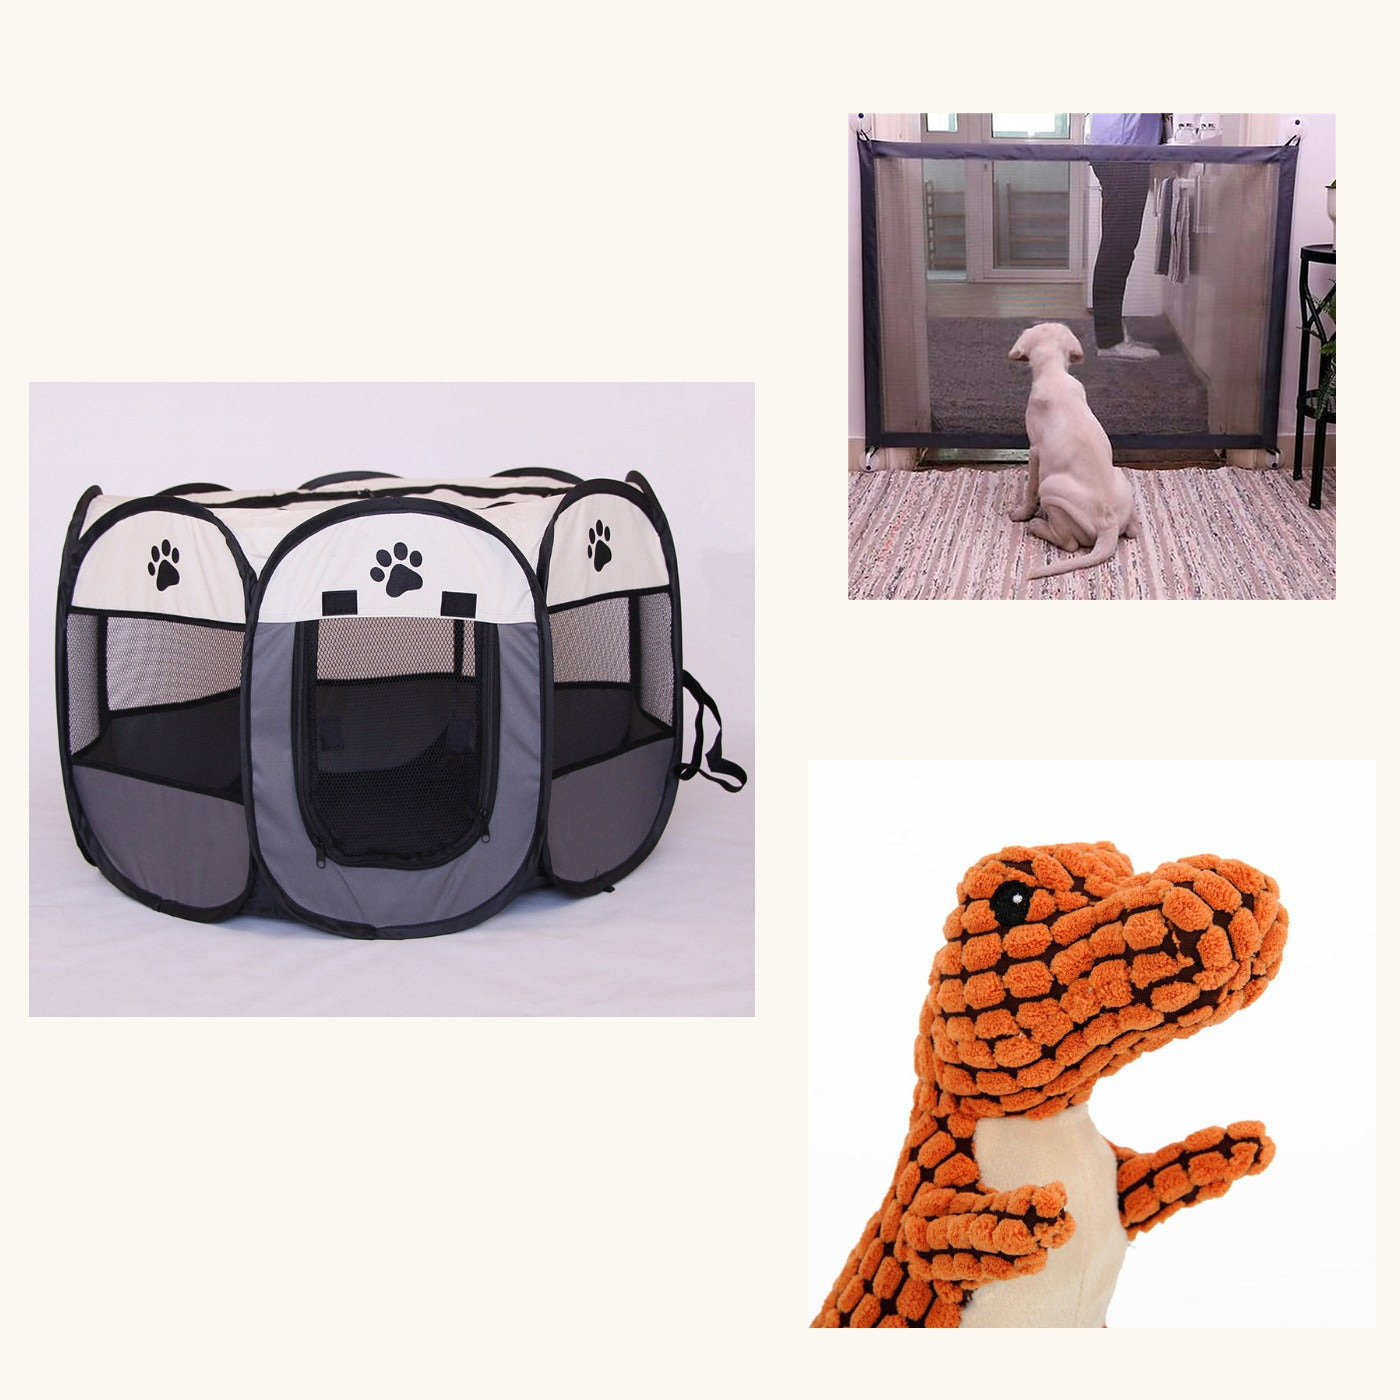
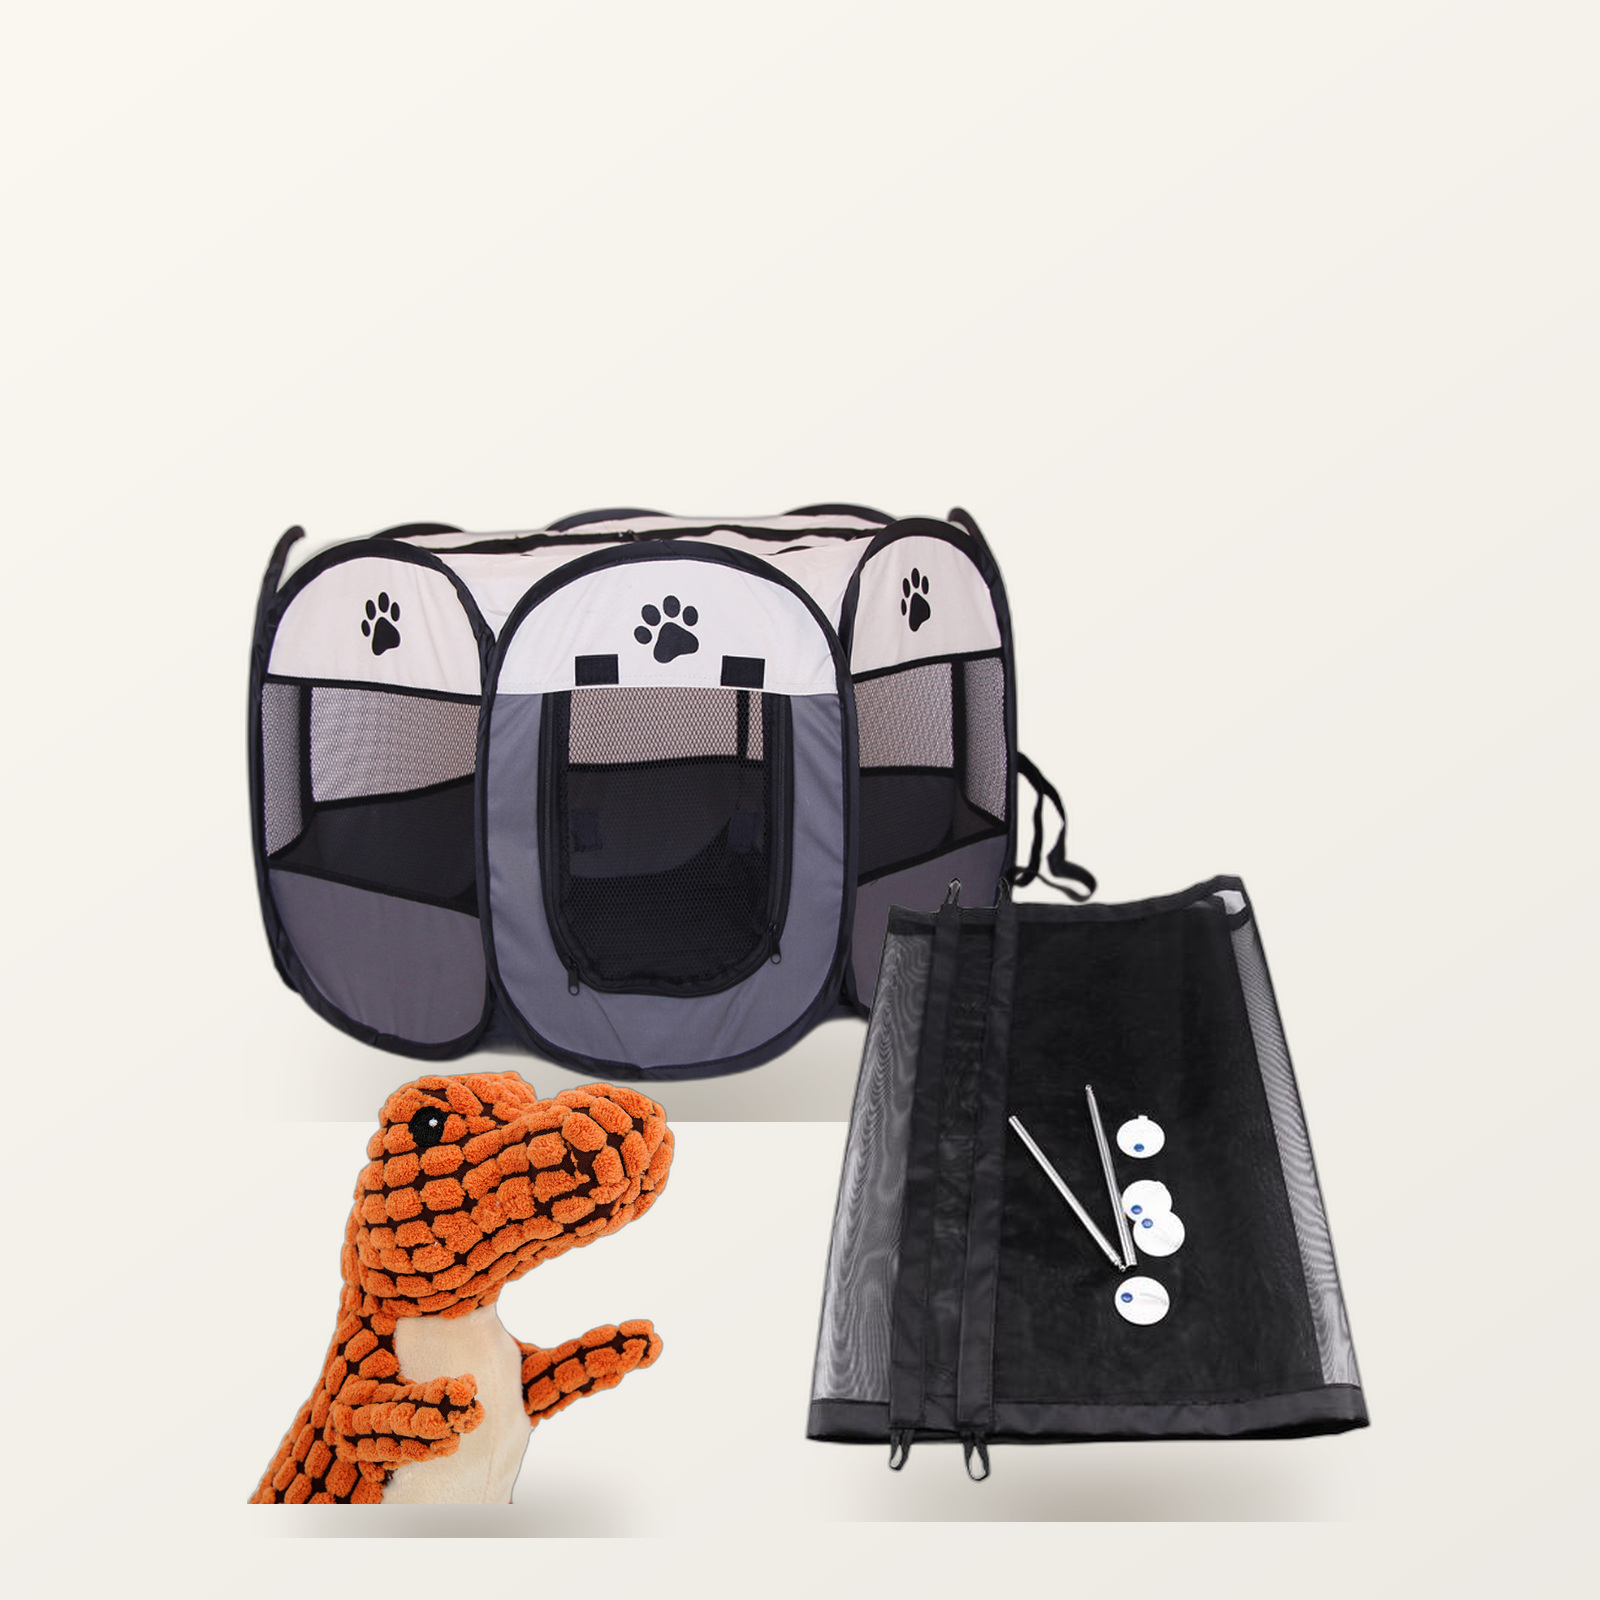
Packs: una sola foto en vez de tres pegadas
La foto de un pack era un collage: tres rectangulos sobre fondo crema, cada
uno con su propio fondo blanco, gris o lila. Se veian las costuras y lo que
llegaba al cliente era «tres fotos juntas», no un producto. Ademas solo dos
de los cuatro packs tenian siquiera ese collage, asi que en la coleccion unos
ensenaban el conjunto y otros una sola pieza.

Ahora scripts/fotos/montaje-pack.py recorta el fondo de cada pieza y las
coloca sobre una unica superficie continua, con su sombra de contacto. Las
piezas se situan a mano y no en fila: una fila deja el cuadro en una banda y
todo a la misma distancia. Poniendo lo grande detras y arriba y lo pequeno
delante y abajo, el ojo lee una mesa con tres cosas encima.

Nada esta generado. Son las fotos reales del proveedor, recortadas. Un pack
tiene que ensenar lo que llega a casa, y para eso una imagen inventada no
sirve por buena que sea.

Dos cosas que costaron mas de lo previsto:

  rembg no ve la alfombrilla de lamer, que es gris claro sobre blanco, y solo
  devuelve la comida de los huecos. Para eso se anade recortar_plano(), que
  no necesita modelo: quita las manchas del color del fondo QUE TOCAN EL
  BORDE de la foto. Un hueco blanco dentro del objeto no toca el borde y se
  queda.

  Varias fotos de origen no eran de producto aislado: llevaban recuadros de
  detalle, rotulos en ingles, una pata de perro suelta, o el parque en rosa,
  que es un color que no vendemos. Se ha ido a la ficha del proveedor a
[…]

diff --git a/scripts/fotos/montaje-pack.py b/scripts/fotos/montaje-pack.py
@@ -1,0 +1,148 @@
+#!/usr/bin/env python3
+"""Monta las piezas de un pack en UNA sola foto.
+
+El problema que resuelve: hasta ahora la foto de un pack era un collage de
+rectangulos pegados sobre un fondo crema. Se veian las costuras —cada foto
+traia su propio fondo blanco, gris o lila— y lo que llegaba al cliente era
+«tres fotos juntas», no «un producto».
+
+Aqui se recorta el fondo de cada pieza con rembg y se colocan las tres sobre
+una unica superficie continua, apoyadas en la misma linea de suelo y con su
+sombra de contacto. El resultado se lee como una foto de tres objetos encima
+de una mesa.
+
+Nada de esto es generado: son las fotos reales del proveedor, recortadas.
+Un pack tiene que ensenar lo que llega a casa.
+"""
+import os
+import sys
+
+import numpy as np
+from PIL import Image, ImageDraw, ImageFilter
+
+CREMA = (251, 247, 241)      # --crema de la marca
+LADO = 1600
+
+_sesion = None
+
+
+def recortar(ruta):
+    """Quita el fondo y devuelve la pieza ajustada a su caja."""
+    global _sesion
+    from rembg import remove, new_session
+    if _sesion is None:
+        _sesion = new_session('u2net')
+    im = Image.open(ruta)
+    im.load()
+    out = remove(im.convert('RGBA'), session=_sesion)
+    caja = out.getbbox()
+    return out.crop(caja) if caja else out
+
+
+def recortar_plano(ruta, tolerancia=26, suavizado=1.4):
+    """Recorte para objetos claros sobre fondo blanco liso.
+
+    rembg falla con la alfombrilla de lamer: es gris claro sobre blanco y el
+    modelo no la distingue del fondo, asi que solo devuelve la comida de los
+    huecos. Aqui no hace falta un modelo. El fondo es de un color plano, y lo
+    que hay que quitar es exactamente eso: las manchas de ese color que tocan
+    el borde de la foto. Lo de dentro del objeto —un hueco blanco, un reflejo—
+    no toca el borde y se queda.
+    """
+    from scipy import ndimage
+    im = Image.open(ruta)
+    im.load()
+    im = im.convert('RGB')
+    a = np.asarray(im).astype(int)
+
+    esquinas = np.concatenate([a[:8, :8].reshape(-1, 3), a[:8, -8:].reshape(-1, 3),
+                               a[-8:, :8].reshape(-1, 3), a[-8:, -8:].reshape(-1, 3)])
+    fondo = np.median(esquinas, axis=0)
+    parecido = np.abs(a - fondo).max(axis=2) <= tolerancia
+
+    etiquetas, n = ndimage.label(parecido)
+    del_borde = set(etiquetas[0, :]) | set(etiquetas[-1, :]) | set(etiquetas[:, 0]) | set(etiquetas[:, -1])
+    del_borde.discard(0)
+    quitar = np.isin(etiquetas, list(del_borde))
+
+    alfa = np.where(quitar, 0, 255).astype('uint8')
+    alfa = np.asarray(Image.fromarray(alfa).filter(ImageFilter.GaussianBlur(suavizado)))
+    out = Image.fromarray(np.dstack([np.asarray(im), alfa]), 'RGBA')
+    caja = out.getbbox()
+    return out.crop(caja) if caja else out
+
+
+def sombra(tam, ancho, opacidad=88):
+    """Sombra de contacto: una elipse difuminada bajo el objeto.
+
+    Es lo que hace que las piezas parezcan apoyadas en la misma superficie
+    en vez de flotando cada una por su lado. Sin esto el montaje sigue
+    leyendose como un collage aunque los fondos coincidan.
+    """
+    capa = Image.new('L', tam, 0)
+    d = ImageDraw.Draw(capa)
+    alto = max(10, int(ancho * 0.13))
+    cx, cy = tam[0] // 2, tam[1] - alto // 2
+    d.ellipse([cx - ancho // 2, cy - alto // 2, cx + ancho // 2, cy + alto // 2],
+              fill=opacidad)
+    return capa.filter(ImageFilter.GaussianBlur(alto * 0.55))
+
+
+def superficie(lado):
+    """Fondo crema con una caida de luz suave, para que no sea un plano muerto."""
+    base = Image.new('RGB', (lado, lado), CREMA)
+    y = np.linspace(0, 1, lado)[:, None]
+    x = np.linspace(0, 1, lado)[None, :]
+    # mas luz arriba a la izquierda, como una ventana fuera de cuadro
+    caida = 1.0 - 0.055 * ((x * 0.6 + y * 0.9) / 1.5)
+    a = np.asarray(base).astype(float) * caida[..., None]
+    return Image.fromarray(np.clip(a, 0, 255).astype('uint8'))
+
+
+def montar(piezas, salida, lado=LADO):
+    """Coloca cada pieza donde se le dice y devuelve una sola foto.
+
+    `piezas` es una lista de (ruta, cx, base, ancho), en fraccion del cuadro:
+      cx     centro horizontal
+      base   linea donde apoya la pieza
+      ancho  ancho de la pieza
+
+    Se colocan a mano y no en fila porque una fila deja el cuadro en una
+    banda: lo grande y lo pequeno acaban a la misma distancia y la foto no
+    tiene profundidad. Poniendo lo grande detras y arriba, y lo pequeno
+    delante y abajo, el ojo lee una mesa con tres cosas encima en vez de tres
+    recortes alineados.
+
+    Se dibujan primero todas las sombras y despues todos los objetos, para
+    que la sombra de uno pueda caer sobre el de al lado.
+    """
+    lienzo = superficie(lado)
+    puestas = []
+    for ruta, cx, base, ancho in piezas:
+        if ruta.endswith('!plano'):
+            obj = recortar_plano(ruta[:-6])
+        else:
+            obj = recortar(ruta)
+        w = int(lado * ancho)
+        h = int(obj.height * w / obj.width)
+        obj = obj.resize((w, h), Image.LANCZOS)
+        puestas.append((obj, int(lado * cx - w / 2), int(lado * base) - h))
+
+    for obj, x, y in puestas:
+        s = sombra((obj.width, obj.height + 46), int(obj.width * 0.78), 96)
+        oscuro = Image.new('RGB', s.size, (86, 76, 60))
+        lienzo.paste(oscuro, (x, y + obj.height - s.size[1] + 34), s)
+    for obj, x, y in puestas:
+        lienzo.paste(obj, (x, y), obj)
+
+    lienzo.save(salida, quality=94, subsampling=0)
+    print('%s  %s' % (os.path.basename(salida), lienzo.size))
+
+
+if __name__ == '__main__':
+    # uso: montaje-pack.py salida.jpg  ruta:cx:base:ancho  ...
+    piezas = []
+    for arg in sys.argv[2:]:
+        r, cx, b, a = arg.rsplit(':', 3)
+        piezas.append((r, float(cx), float(b), float(a)))
+    montar(piezas, sys.argv[1])
